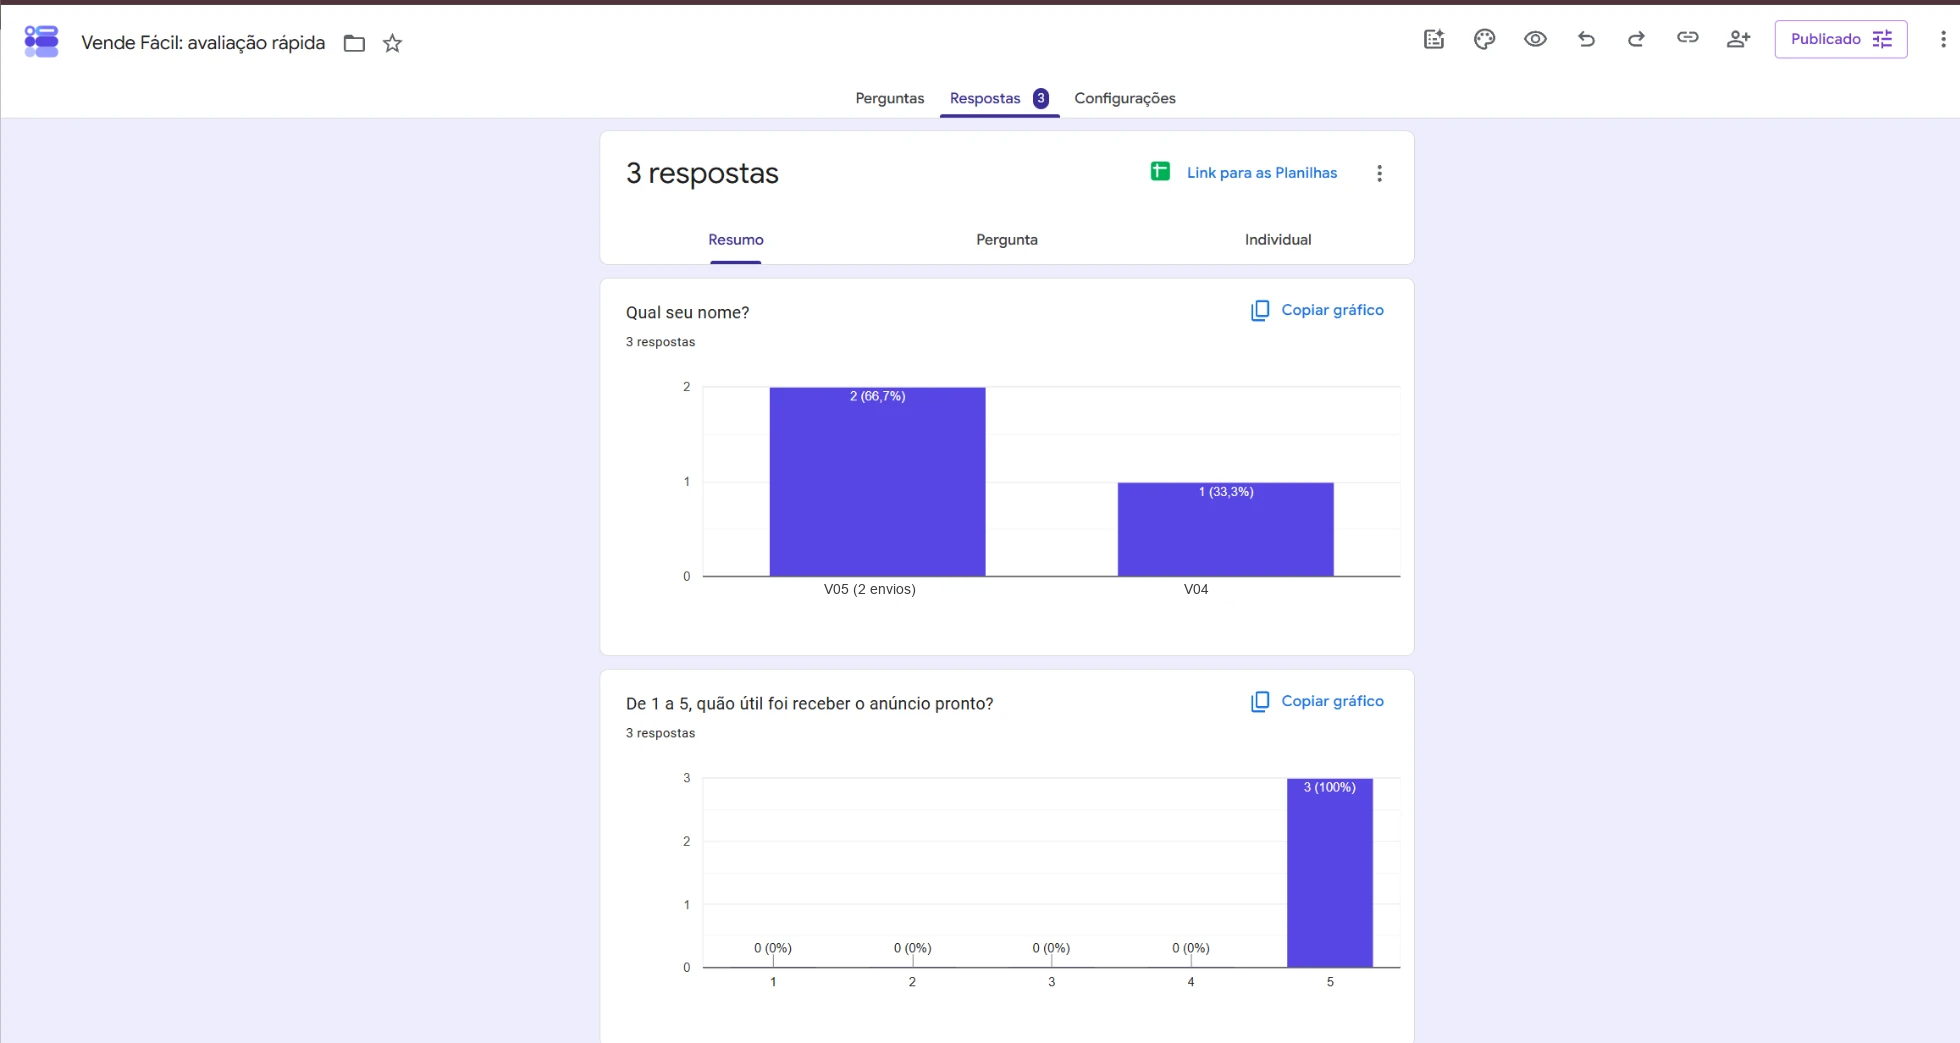
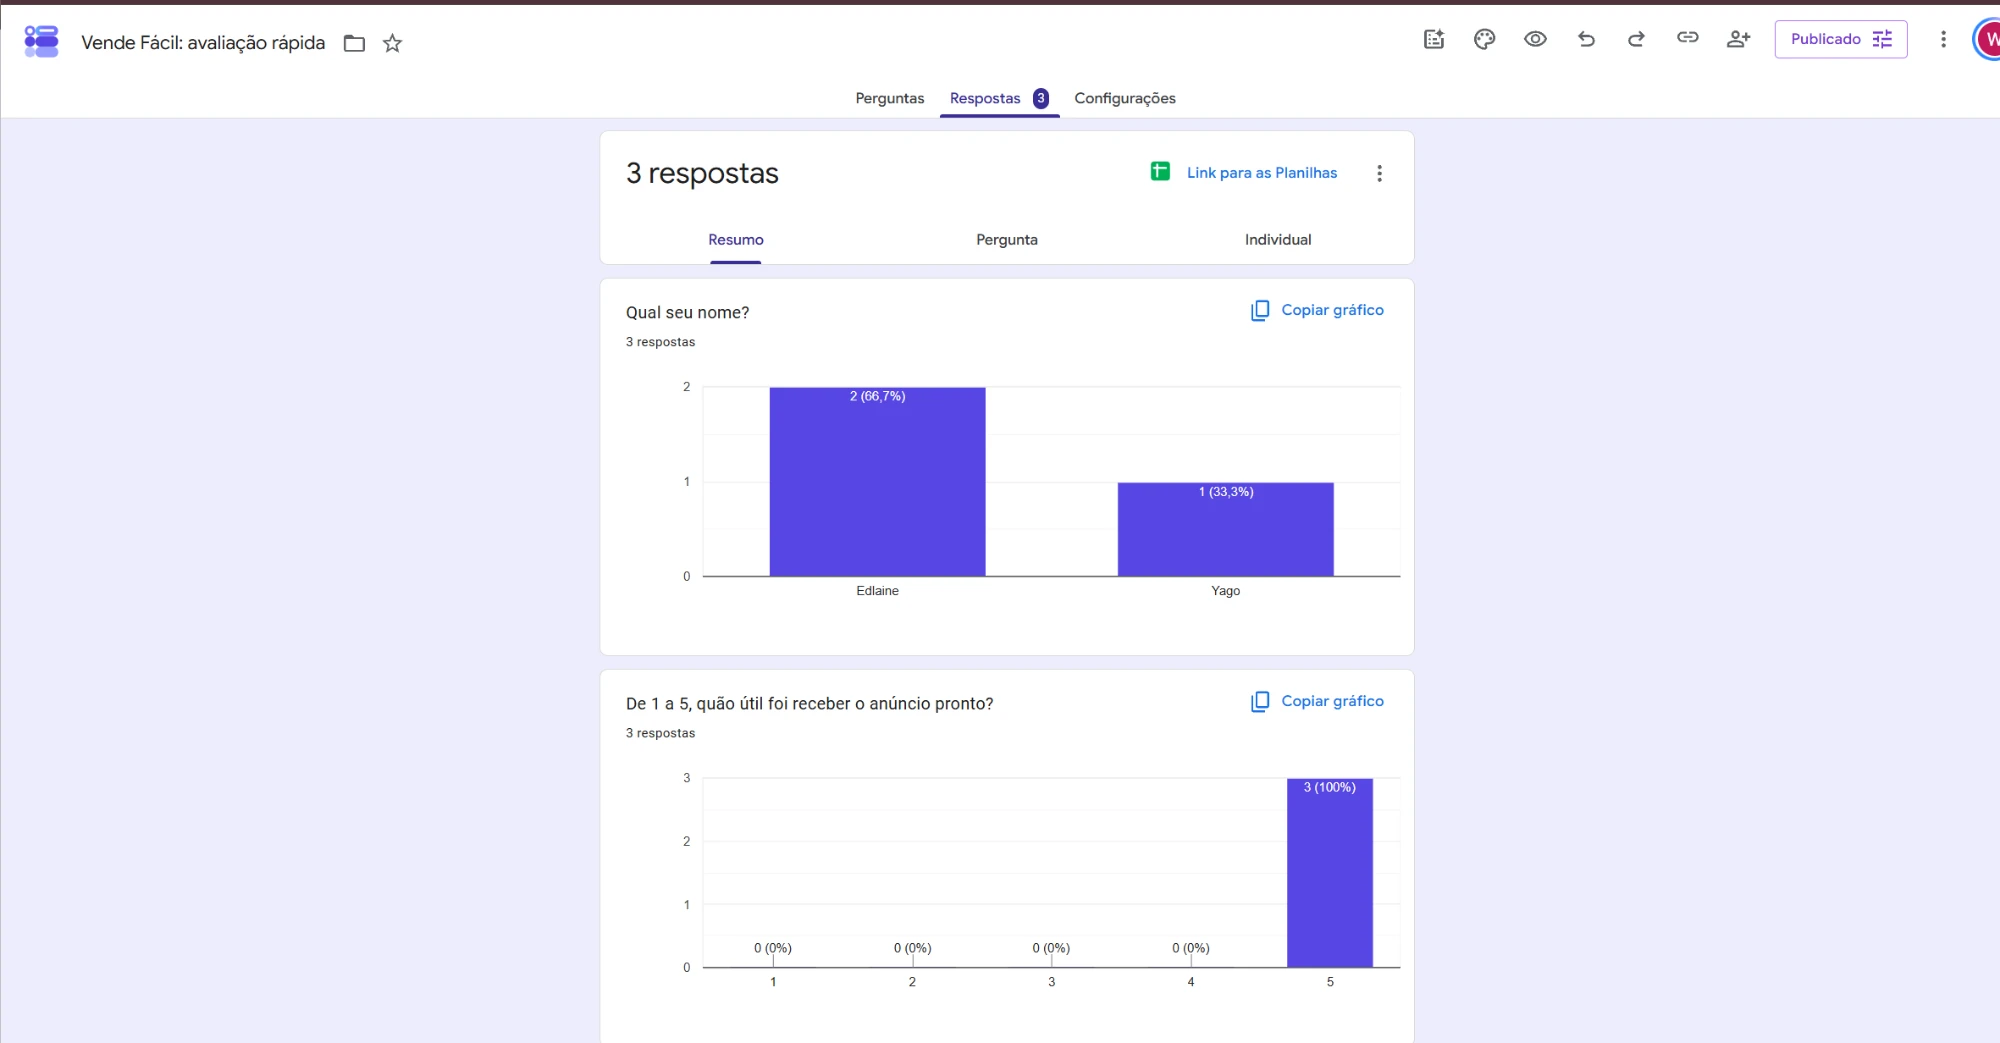
Prints com as telas reais das conversas e remove o roteiro do vídeo do repositório

diff --git a/ciclo-2-vende-facil/04-evidencias/registro-convites.md b/ciclo-2-vende-facil/04-evidencias/registro-convites.md
@@ -6,7 +6,7 @@
 | V04 | 04/10/2026 10:37 | Conversa individual (amigo) | [convite](prints/2026-10-04_convite-V04.png) · [resposta 1](prints/2026-10-04_resposta-V04.png) · [resposta 2](prints/2026-10-04_resposta-V04-perguntas.png) | 12:32: **não tem nada que queira vender**; se ofereceu para inventar um item. 19:16: mandou a foto do monitor sugerido pelo autor e respondeu: *"Venderia esse monitor, ele está velho já"*, *"Tive dificuldade para vender"*, *"já vendi pelo Mercado Livre, achei uma experiência tranquila"* |
 | V05 | 04/10/2026 10:35 | Conversa individual (família) | [convite](prints/2026-10-04_convite-V05.png) · [resposta 1](prints/2026-10-04_resposta-V05.png) · [resposta 2](prints/2026-10-04_resposta-V05-cooktop.png) | 11:00: está fazendo almoço, responde em seguida. 22:42: mandou a foto de um cooktop Philco 4 bocas: *"quero vender [...] pois nao uso mais e comprei um maior"*, *"nao consigo vender"*, *"ja vendi pela olx e tem uma visibilidade boa"* |
 
-> Nos prints publicados aparecem só as mensagens do autor e as respostas, com nomes, fotos de perfil e telefones cobertos. Em fotos de itens, reflexos da pessoa e do ambiente são borrados. Os originais ficam em `brutos/` (fora do Git).
+> Os prints são **telas reais e inteiras** do WhatsApp, do Google Forms e da OLX, com nomes de grupos e pessoas visíveis para comprovar a autenticidade. Só ficam cobertos ou borrados dados de terceiros que não fazem parte do teste: telefones, e-mail, comprovante de Pix, mensagens pessoais anteriores, vídeos pessoais e reflexos em fotos. Os originais sem nenhuma edição ficam em `brutos/` (fora do Git).
 
 ## Mensagem enviada (versão do autor)
 > [saudação], to fazendo um trabalho de faculdade, de um produto ("Vende Fácil") a ideia é você mandar a foto de um produto que você queira vender e eu te devolvo o preço sugerido + título + descrição do anúncio
@@ -41,4 +41,4 @@ Enviado depois do encerramento dos testes, para tentar obter a nota de utilidade
 | V04 | 5 | Justo |
 | V05 | 5 | Justo |
 
-Evidência: [resumo das respostas, parte 1](prints/form-curto-respostas-1.png) · [parte 2](prints/form-curto-respostas-2.png). Nos prints publicados, os nomes foram trocados pelos códigos.
+Evidência: [resumo das respostas, parte 1](prints/form-curto-respostas-1.png) · [parte 2](prints/form-curto-respostas-2.png).

diff --git a/ciclo-2-vende-facil/04-evidencias/LEIA-ME.md b/ciclo-2-vende-facil/04-evidencias/LEIA-ME.md
@@ -6,13 +6,15 @@ Tudo que comprova que o experimento aconteceu com pessoas reais.
 |---|---|
 | [registro-convites.md](registro-convites.md) | Quando e por qual canal cada pessoa foi convidada, a mensagem enviada e os desvios do protocolo |
 | [registro-testes.csv](registro-testes.csv) | Uma linha por convidado (V01, V02…): respostas de problema, preço da IA × mercado, publicou ou não |
-| `prints/form-curto-respostas-*.png` | Resumo das respostas do formulário curto, com os **nomes trocados pelos códigos** (o original fica em `brutos/`) |
+| `prints/form-curto-respostas-*.png` | Resumo das respostas do formulário curto, como aparece no Google Forms |
 | `entregas/` | Um arquivo por participante: checagem de preço em anúncios reais e anúncio entregue |
-| `prints/` | Conversas (sem telefone e sem foto de perfil), anúncios entregues e **anúncios publicados** |
+| `prints/` | Telas reais das conversas, das entregas e dos **anúncios publicados** |
 | `brutos/` | Originais e fotos recebidas, **ignorado pelo Git e nunca publicado** |
 
 ## Regras de privacidade (repositório público)
-- **Nomes, fotos de perfil e telefones sempre cobertos.** Nos documentos, cada pessoa aparece só pelo código (V01 a V05).
+- **Prints com a tela real e inteira**, incluindo nomes de grupos e pessoas, para comprovar que o teste aconteceu. Nos documentos de análise, cada pessoa aparece pelo código (V01 a V05).
+- **Telefones, e-mails, CPF e comprovantes de Pix de terceiros sempre cobertos.**
+- **Mensagens pessoais anteriores ao teste ficam borradas**: aparecem na tela, mas não dá para ler.
 - Nos prints de anúncios publicados, cubra também telefone e endereço exato, se aparecerem.
 - Fotos de itens podem aparecer, com **reflexos da pessoa e do ambiente borrados**. A foto original fica só em `brutos/`.
 

diff --git a/README.md b/README.md
@@ -59,7 +59,7 @@ Nenhuma linha de código. O autor faz o papel do produto:
 4. Formulário de 1 minuto → [perguntas](ciclo-2-vende-facil/03-experimento/formulario-avaliacao.md)
 
 ### Evidências
-**5 pessoas reais** convidadas em 04/10 (4 amigos e 1 pessoa da família): 3 em um grupo de WhatsApp e 2 em conversas individuais. **2 testes completos** (V04: monitor; V05: cooktop), com checagem de preço em 3 anúncios reais da OLX para cada item. Tudo registrado em [04-evidencias/](ciclo-2-vende-facil/04-evidencias/), sem nomes nem telefones.
+**5 pessoas reais** convidadas em 04/10 (4 amigos e 1 pessoa da família): 3 em um grupo de WhatsApp e 2 em conversas individuais. **2 testes completos** (V04: monitor; V05: cooktop), com checagem de preço em 3 anúncios reais da OLX para cada item. Tudo registrado em [04-evidencias/](ciclo-2-vende-facil/04-evidencias/), com os **prints reais das conversas** (só telefones, Pix e mensagens pessoais anteriores ficam cobertos).
 
 | Anúncio original da V05 (no ar desde 01/10, sem venda) | Depois do Vende Fácil (republicado em 05/10) |
 |---|---|
@@ -103,7 +103,6 @@ A IA apoiou a geração de ideias (inclusive as do pivô), a estruturação de h
 README.md                  O case completo
 CRONOGRAMA.md              Plano da semana (incluindo o pivô)
 diario-ia.md               Como a IA foi usada, e onde a decisão foi humana
-06-pitch/                  Roteiro do vídeo
 ciclo-1-semestra/          Hipóteses, canvas, landing, evidências e decisão de pivotar
 ciclo-2-vende-facil/       Hipóteses, canvas, concierge, evidências e síntese
 ```

diff --git a/CRONOGRAMA.md b/CRONOGRAMA.md
@@ -16,7 +16,7 @@
 | D0 | **Dom 04/10** | Revisar e **congelar** as metas em `ciclo-2-vende-facil/01-parte-teorica.md`. Criar o formulário de avaliação (prompt pronto). **Mandar a mensagem 1 para as 5 pessoas, uma por uma** (e ter 1 ou 2 reservas). Para quem responder: oferta, fotos e entregas no mesmo dia. | Convites enviados, primeiras entregas |
 | D1 | Seg 05/10 | Terminar perguntas e entregas. Conferir preço em 3 anúncios para cada item. Acompanhar quem recebeu ontem ("publicou?"). | Anúncio entregue para todos que têm item |
 | D2 | Ter 06/10 | **Até 12h:** último acompanhamento e formulário. **Tarde:** exportar dados, preencher CSV e síntese, aplicar a regra de decisão, atualizar Canvas v2 e README. | Síntese + decisão |
-| D3 | Qua 07/10 | Gravar o vídeo (`06-pitch/roteiro.md`), testar o link em aba anônima e **entregar**. | Entrega ✅ |
+| D3 | Qua 07/10 | Gravar o vídeo, testar o link em aba anônima e **entregar**. | Entrega ✅ |
 
 ## Regras de ouro
 1. **Convite individual**, nunca em grupo (aprendizado do Ciclo 1).

diff --git a/ciclo-1-semestra/04-evidencias/registro-divulgacao.md b/ciclo-1-semestra/04-evidencias/registro-divulgacao.md
@@ -9,7 +9,7 @@ Textos usados: [mensagens-whatsapp.md](../03-experimento/mensagens-whatsapp.md)
 |---|---|---|---|---|---|
 | D1 | 30/09/2026 12:44 | Grupo de WhatsApp da turma de IA (faculdade) | 30 membros (29 além do autor), [print](prints/2026-09-30_grupo-turma-30-membros.png) | Post completo (seção 1), com prévia da página gerada pelo WhatsApp | [print](prints/2026-09-30_divulgacao-grupo-turma.png) |
 
-> Nos prints publicados, telefones e e-mails de terceiros não aparecem. Originais ficam em `brutos/` (fora do Git).
+> Os prints são **telas reais e inteiras** do WhatsApp, do Google Forms e da OLX, com nomes de grupos e pessoas visíveis para comprovar a autenticidade. Só ficam cobertos ou borrados dados de terceiros que não fazem parte do teste: telefones, e-mail, comprovante de Pix, mensagens pessoais anteriores, vídeos pessoais e reflexos em fotos. Os originais sem nenhuma edição ficam em `brutos/` (fora do Git).
 
 ## Leituras de inscrições
 

diff --git a/ciclo-1-semestra/04-evidencias/LEIA-ME.md b/ciclo-1-semestra/04-evidencias/LEIA-ME.md
@@ -9,4 +9,4 @@ O Ciclo 1 não chegou à etapa de concierge: ninguém se inscreveu pela landing 
 | [prints/2026-09-30_grupo-turma-30-membros.png](prints/2026-09-30_grupo-turma-30-membros.png) | Tamanho do grupo: 30 membros |
 | [prints/2026-10-04_forms-semestra-0-respostas.png](prints/2026-10-04_forms-semestra-0-respostas.png) | Formulário "Quero testar" com 0 respostas após 4 dias |
 
-Prints publicados não mostram telefones nem e-mails de terceiros. Originais ficam em `brutos/` (ignorado pelo Git).
+Os prints são **telas reais e inteiras** do WhatsApp, do Google Forms e da OLX, com nomes de grupos e pessoas visíveis para comprovar a autenticidade. Só ficam cobertos ou borrados dados de terceiros que não fazem parte do teste: telefones, e-mail, comprovante de Pix, mensagens pessoais anteriores, vídeos pessoais e reflexos em fotos. Os originais sem nenhuma edição ficam em `brutos/` (fora do Git).
